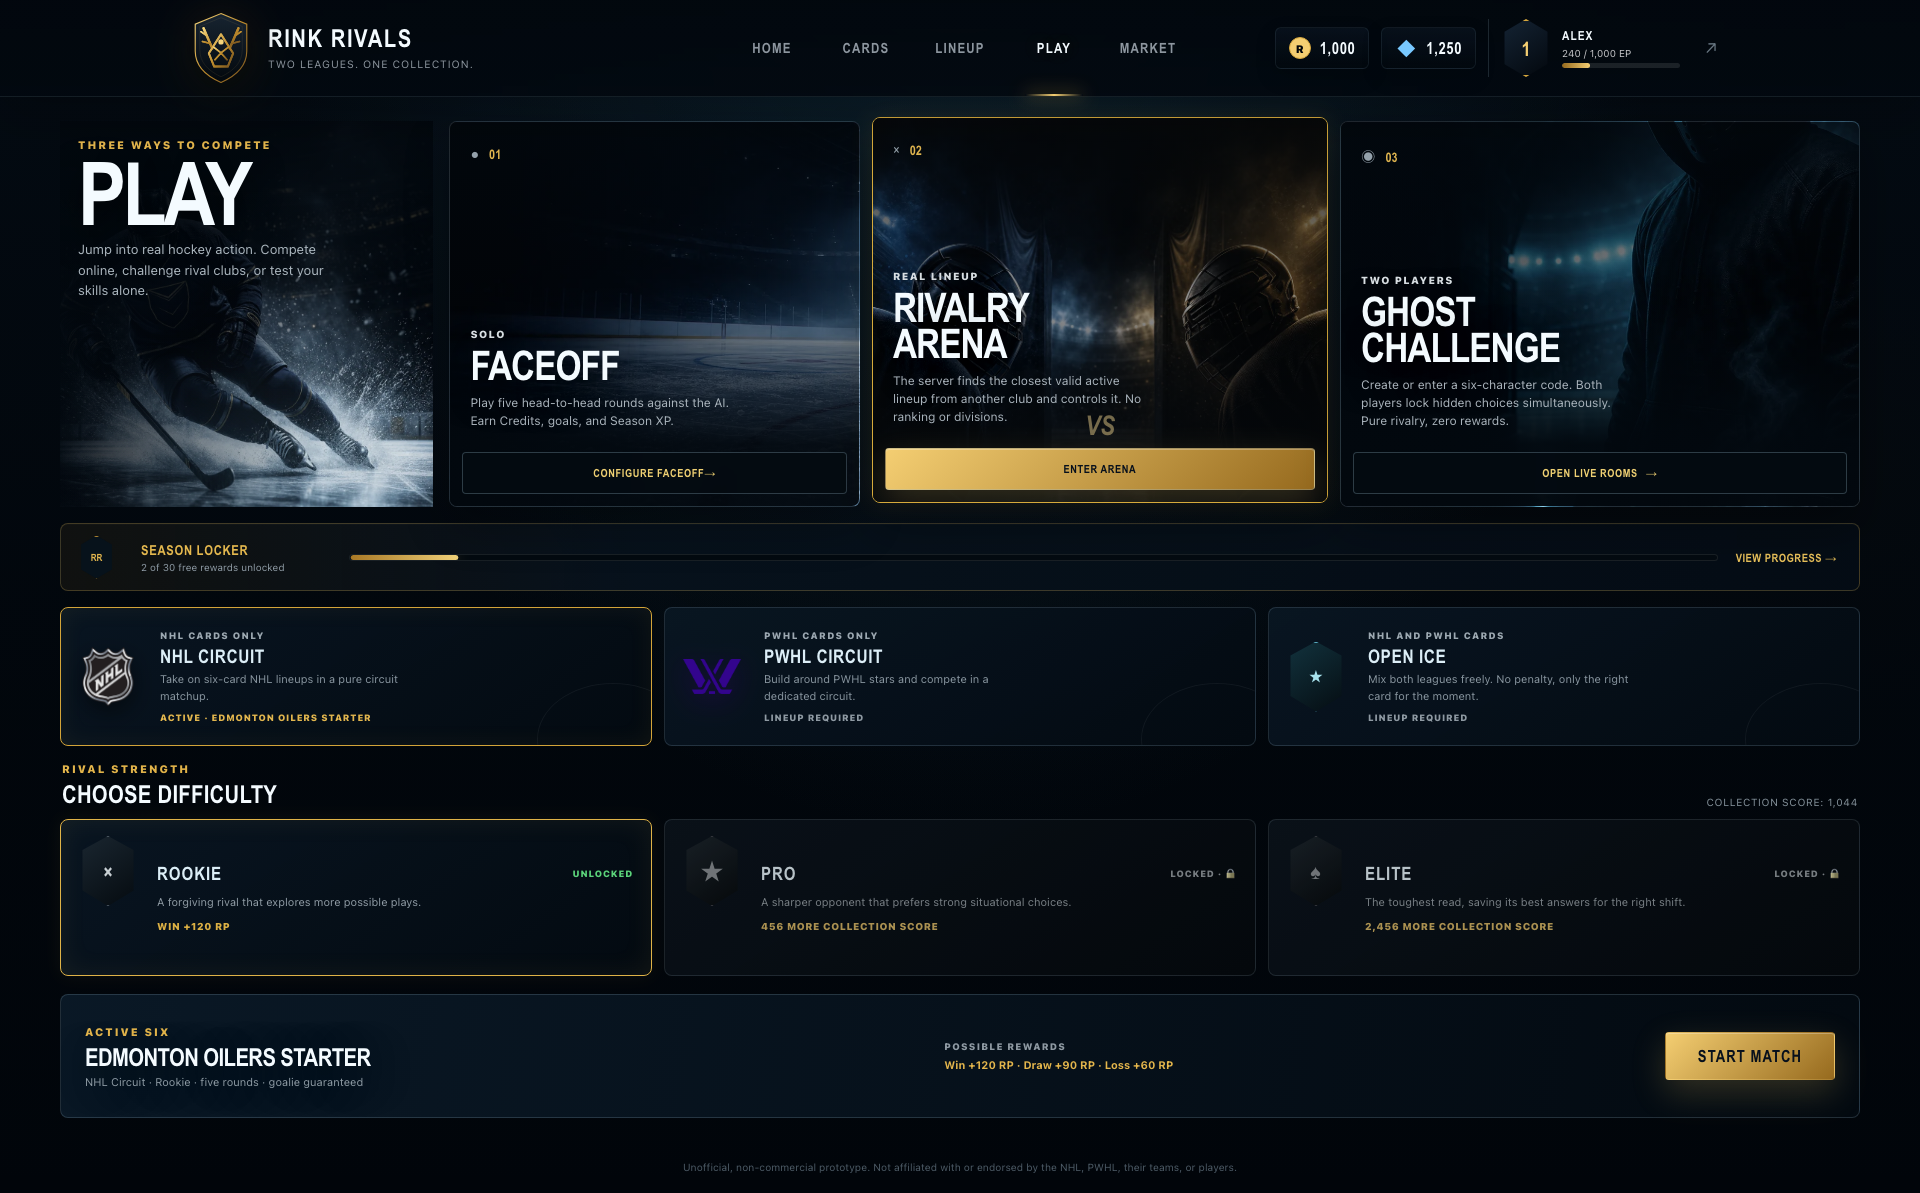
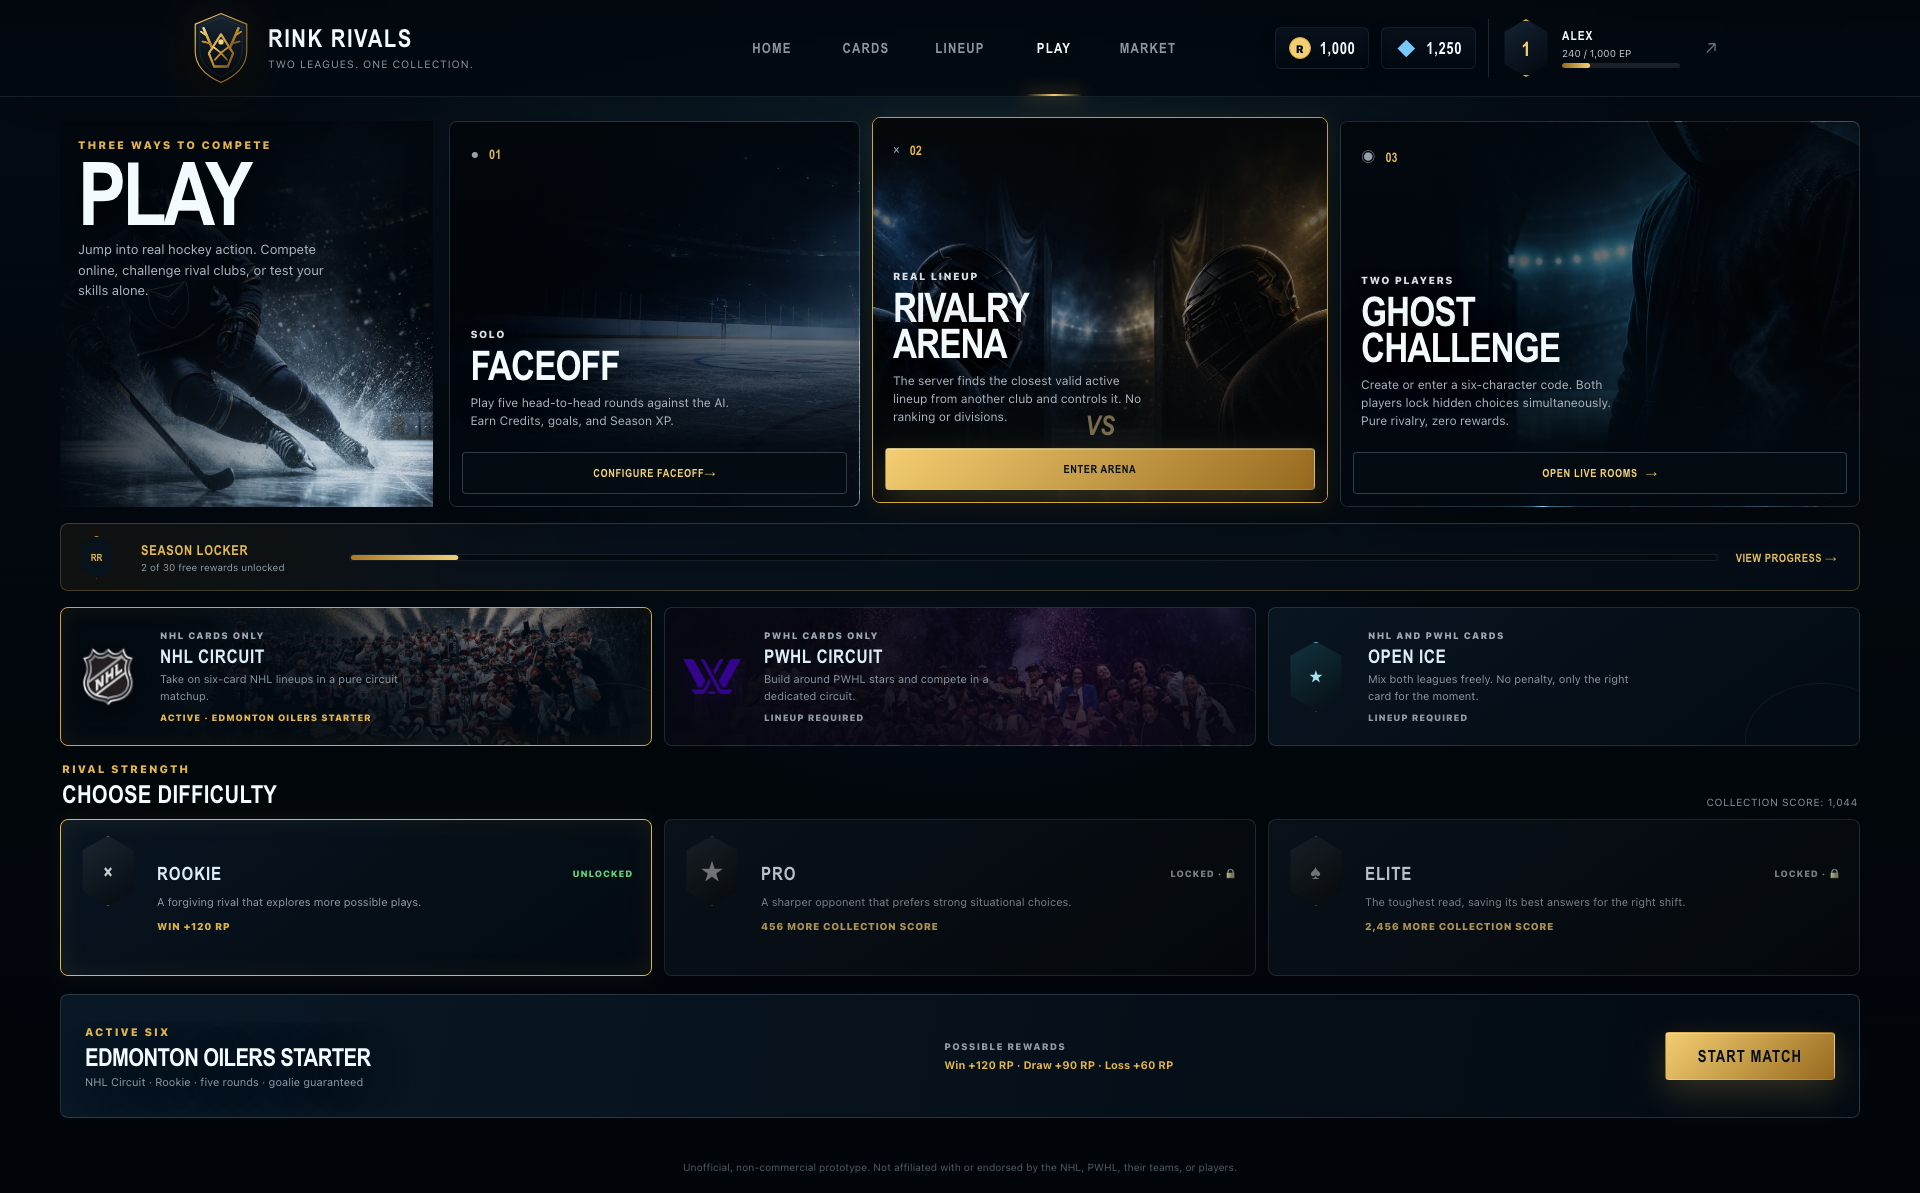
playscreen improvements

Changed region(s): [[0.1562, 0.4962, 0.3125, 0.6203], [0.5, 0.4962, 0.625, 0.6203]]

diff --git a/src/features/play/PlayScreen.module.css b/src/features/play/PlayScreen.module.css
@@ -59,6 +59,18 @@
 
 .circuitGrid { display: grid; grid-template-columns: repeat(3, minmax(0, 1fr)); gap: 12px; }
 .circuitCard { position: relative; display: grid; min-width: 0; min-height: 139px; grid-template-columns: 65px minmax(0, 1fr); align-items: center; gap: 16px; padding: 16px 18px; overflow: hidden; border: 1px solid rgb(144 177 195 / 20%); border-radius: 8px; color: var(--ice-100); background: linear-gradient(145deg, rgb(9 22 34 / 94%), rgb(3 10 17 / 98%)); text-align: left; cursor: pointer; }
+.nhlcircuit {
+  background:
+    linear-gradient(90deg, rgb(3 10 17 / 97%) 0%, rgb(3 10 17 / 83%) 42%, rgb(3 10 17 / 50%) 72%, rgb(3 10 17 / 70%) 100%),
+    linear-gradient(0deg, rgb(3 10 17 / 72%), transparent 78%),
+    url("/assets/ui/play-nhl-circuit.webp") center 58% / cover no-repeat;
+}
+.pwhlcircuit {
+  background:
+    linear-gradient(90deg, rgb(5 8 16 / 97%) 0%, rgb(9 7 19 / 82%) 42%, rgb(28 9 42 / 48%) 72%, rgb(5 8 16 / 70%) 100%),
+    linear-gradient(0deg, rgb(5 8 16 / 74%), transparent 78%),
+    url("/assets/ui/play-pwhl-circuit.webp") center 58% / cover no-repeat;
+}
 .circuitCard::after { position: absolute; right: -38px; bottom: -50px; width: 150px; height: 110px; border: 1px solid rgb(255 255 255 / 5%); border-radius: 50%; content: ""; }
 .circuitCrest { display: grid; width: 58px; height: 70px; place-items: center; border: 1px solid #8c744c; color: #d8dde0; background: linear-gradient(145deg, #1c2832, #050b10); clip-path: polygon(50% 0, 94% 20%, 94% 78%, 50% 100%, 6% 78%, 6% 20%); font-family: var(--font-display); font-size: .74rem; font-weight: 950; }
 .officialCrest { border: 0; background: transparent; clip-path: none; }
